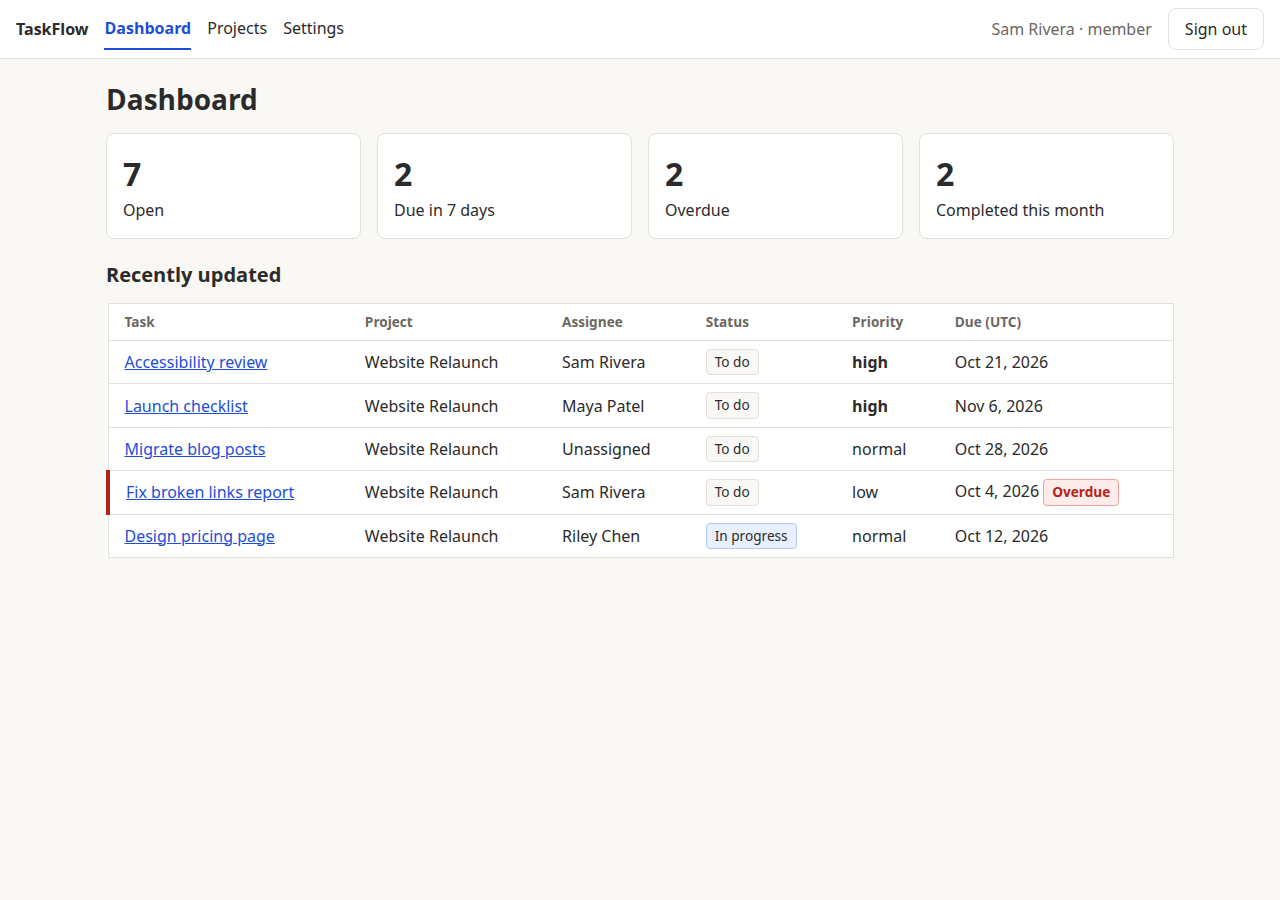
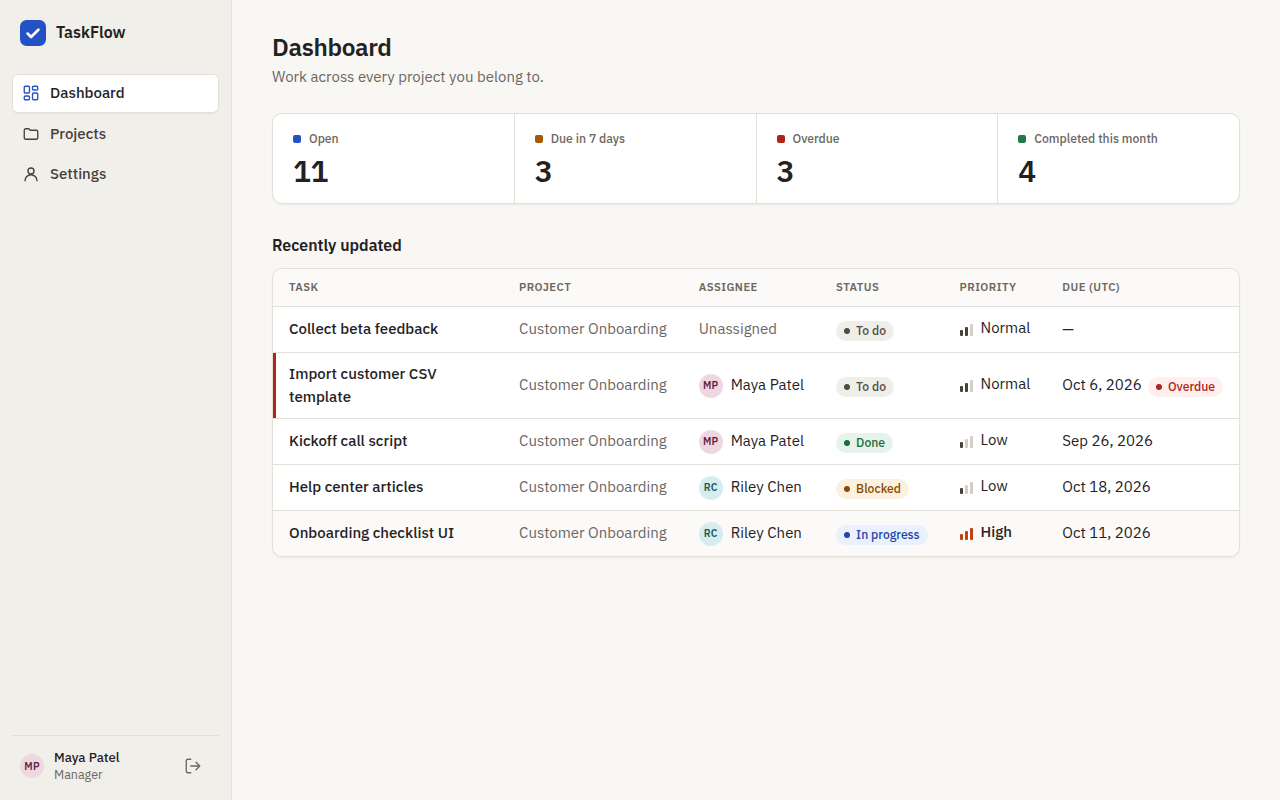
Update README screenshots for the new UI

diff --git a/README.md b/README.md
@@ -14,6 +14,8 @@ Managers plan projects and assign work; members update their own tasks and comme
 
 The sign-in page has one-click buttons for both. All data is fictional seed data.
 
+<img src="docs/screenshots/login.png" alt="Sign-in page with the two demo account buttons">
+
 ## Features and roles
 
 | | Manager | Member |
@@ -25,8 +27,15 @@ The sign-in page has one-click buttons for both. All data is fictional seed data
 
 - Dashboard: open / due in 7 days / overdue / completed this month; each card filters the list.
 - Project view: member chips, status and "only my tasks" filters, pagination, sorted by due date then priority.
-- Task view: field-level editing by role, comment timeline, delete with confirmation.
-- Mobile: the task table becomes stacked cards. Overdue is shown as text, not color alone.
+- Task view: field-level editing by role, comment timeline, delete with confirmation. Fields you can't edit read as plain text, with a note explaining why.
+- Mobile: the sidebar becomes a top bar and the task table becomes stacked cards. Overdue is shown as text, not color alone.
+- Interface: a restrained B2B look built with plain CSS and design tokens (`client/src/styles.css`), with no UI library. Status labels pair a color with text, priority shows as bars plus a word, and people get initials avatars.
+
+<p>
+  <img src="docs/screenshots/project.png" alt="Project page: member chips, filters and the task table" width="49%">
+  <img src="docs/screenshots/task-detail.png" alt="Task page: editable fields, details panel and comments" width="49%">
+</p>
+<p><img src="docs/screenshots/mobile.png" alt="Dashboard on a phone, with tasks shown as cards" width="260"></p>
 
 ## Architecture
 
